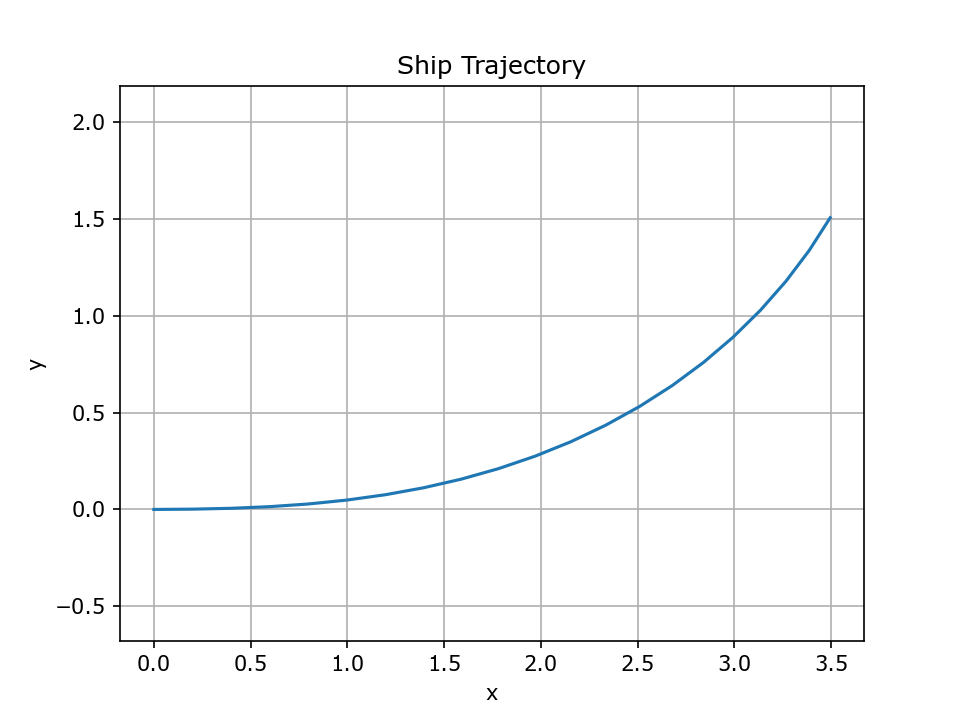
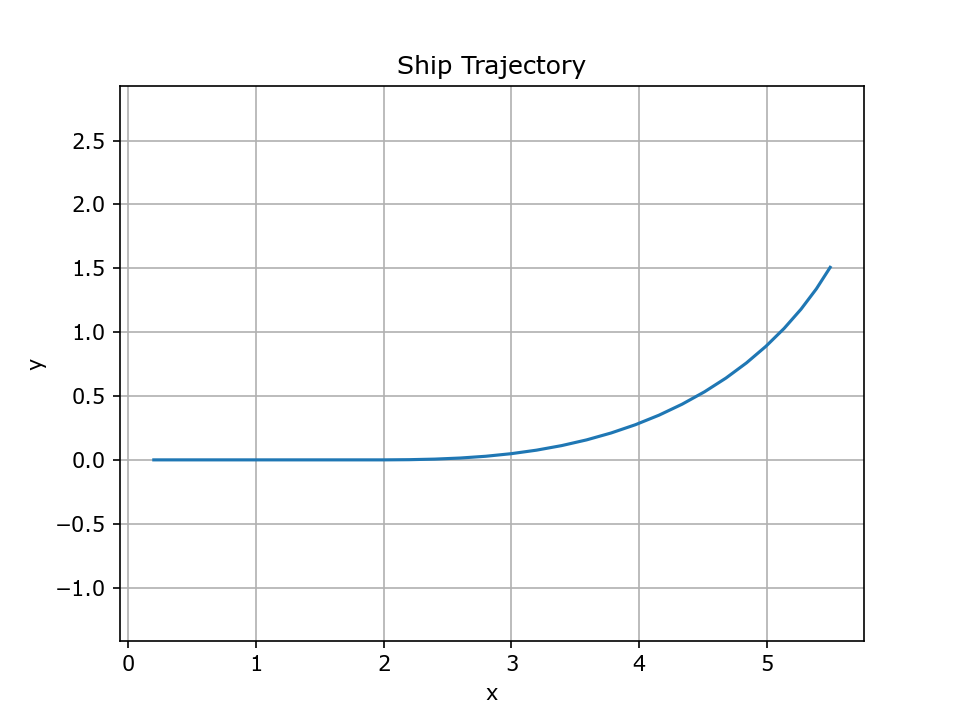
2step command-1

diff --git a/main.py b/main.py
@@ -12,10 +12,15 @@ def main():
     ship.state.speed = 2.0
     
     command = ControlCommand()
-    command.rudder = 0.5
     
     sim = Simulator(ship)
-    sim.run(0.1, 20, command)
+    
+    for i in range(30):
+        if i < 10:
+            command.rudder = 0
+        else:
+            command.rudder = 0.5
+        sim.step(0.1, command)
 
     for item in sim.history:
         print(f"time = {item['time']:.1f}")
